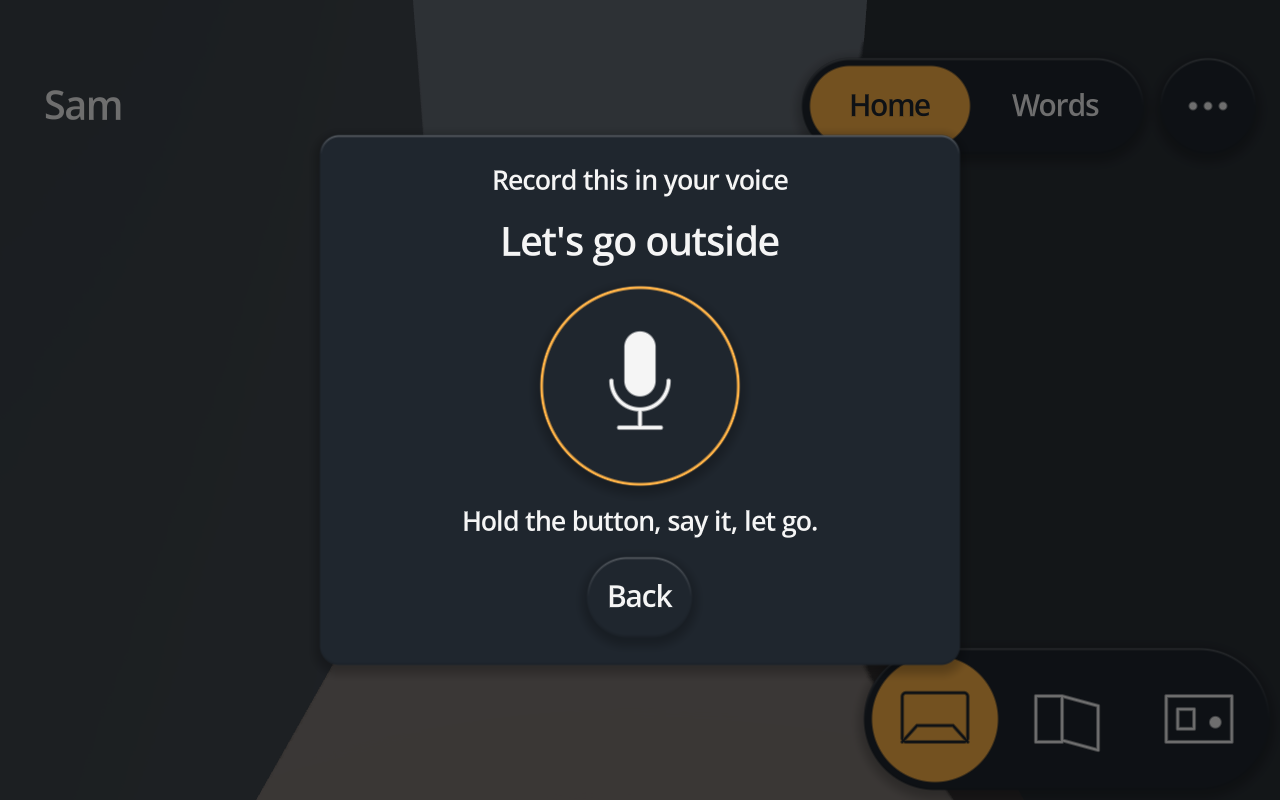
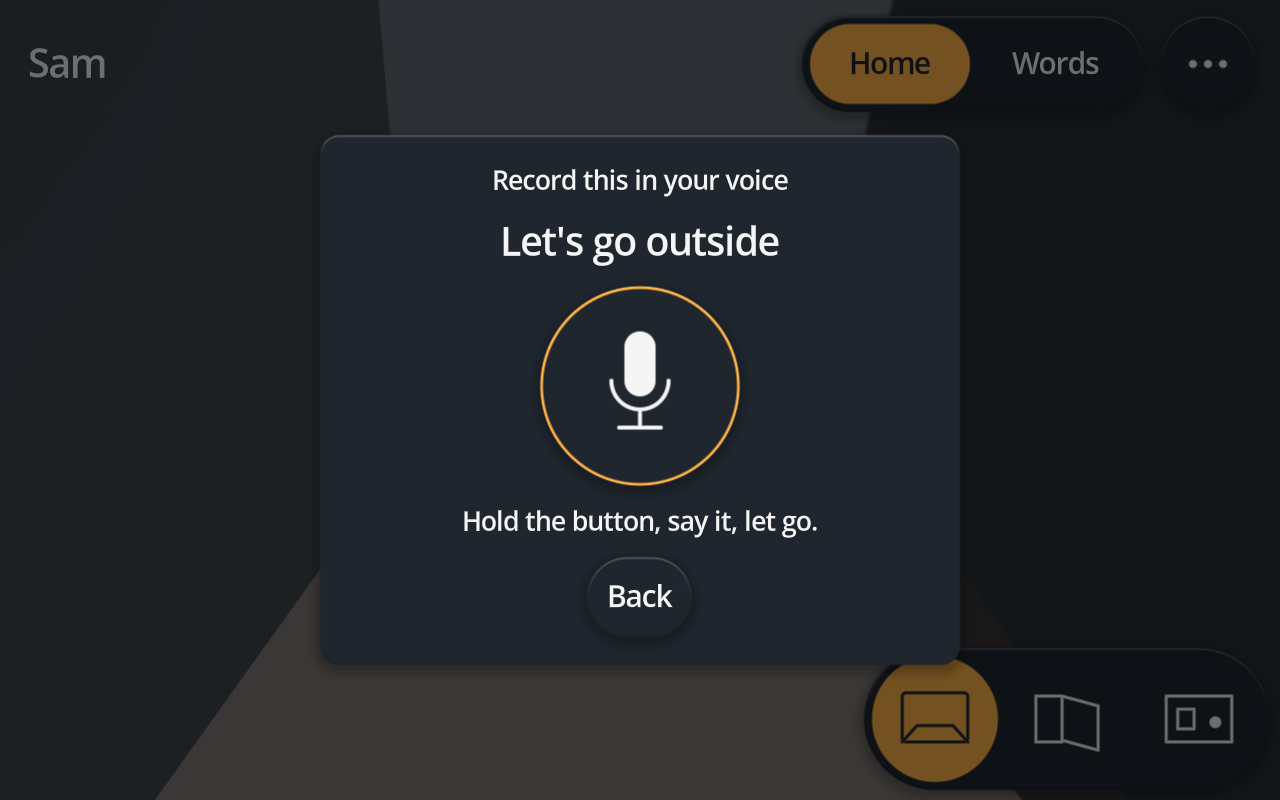
fix(ui) fit the name hit area to its displayed text (#13)

diff --git a/docs/ui.md b/docs/ui.md
@@ -104,6 +104,7 @@ which is where they are checked. The picker image uses the probe's isolated fixt
 
 - Words tiles keep a bounded width and their content height. They wrap into rows in a vertically scrolling column.
 - The profile name is a hold-capable button: tap for speech, hold for recording.
+- Its hit area fits the displayed name with 4 px padding. Long names truncate within the space left by the other header controls.
 - Boot and native application artwork live in `assets/brand/`; see [branding.md](branding.md) for generation prompts.
 - The room uses 4× MSAA and a 4096 px directional shadow map with medium soft filtering on desktop and mobile.
 - Shadow filtering is configured separately from geometry anti-aliasing; see [Godot's project settings](https://docs.godotengine.org/en/stable/classes/class_projectsettings.html#class-projectsettings-property-rendering-lights-and-shadows-directional-shadow-soft-shadow-filter-quality).
